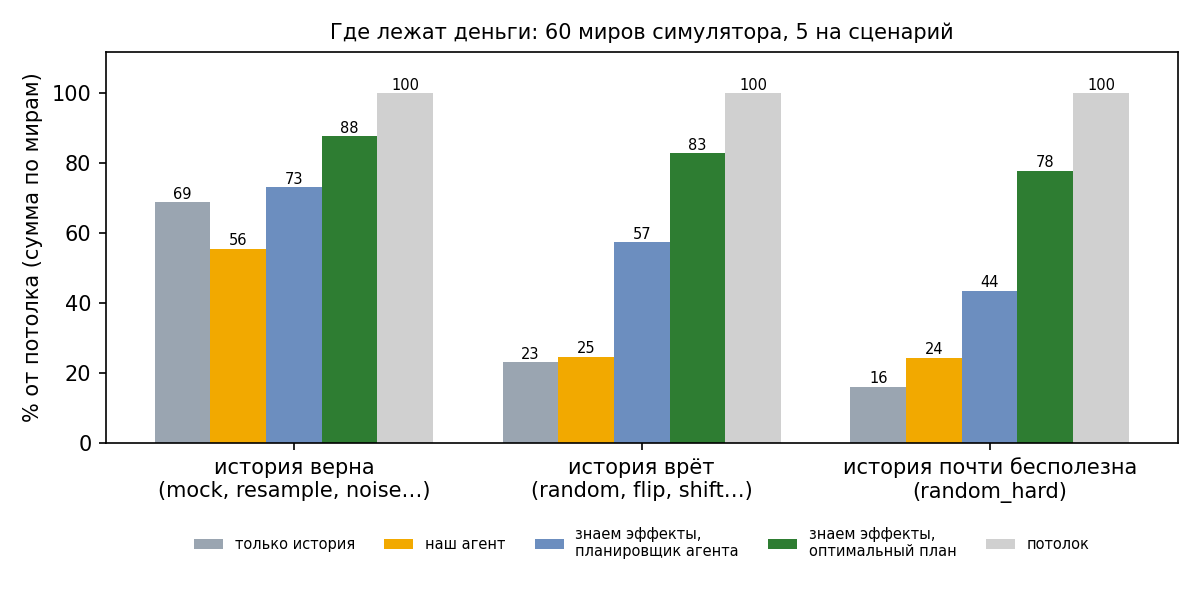
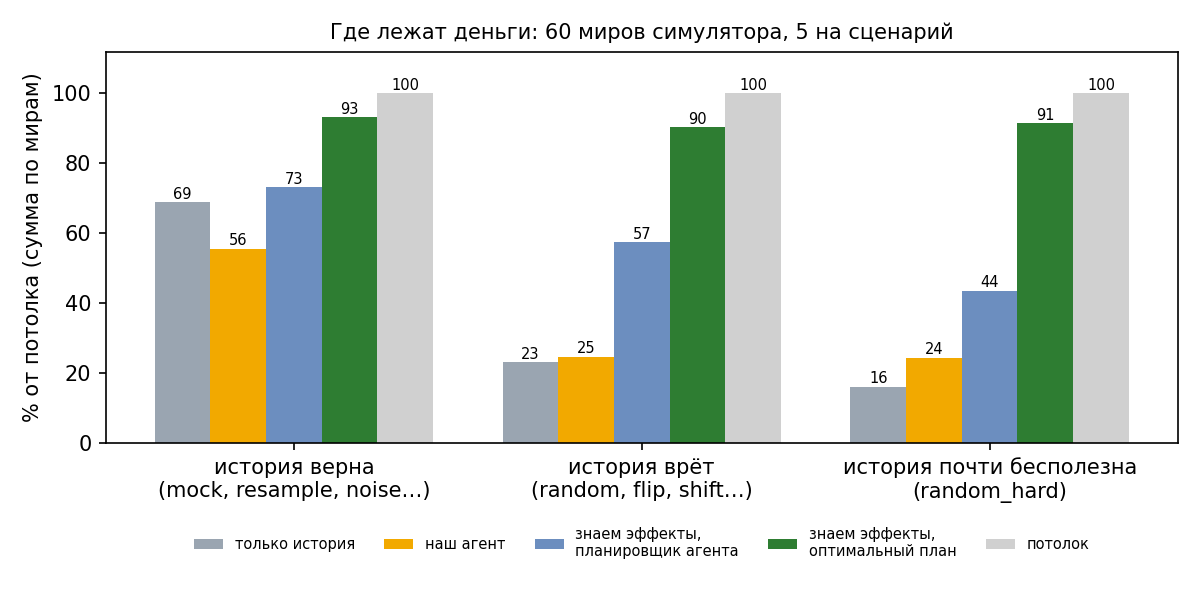
sim: оптимизатор — кандидаты «каждый тариф к своей лучшей цели»; план отыгрывает 92% потолка
Добавлены два семейства наборов тарифов: каждый тариф — к своей лучшей цели (на каждом канале)
и к своей лучшей паре цель × канал. 60 миров: 308.6 против 285.3 млн, лучше в 100% миров;
91.9% потолка против 67.3% у планировщика агента с лучшими каналами. Разрыв агент → потолок:
незнание 40%, каналы 5%, устройство плана 41% (было 30%), запас потолка 14% (было 25%).
По одной истории без пилотов: 176.2 против 154.6 млн, лучше в 75% миров.
Ценность плана = подсчёт организаторов. Миры не менялись.

Changed region(s): [[0.8325, 0.18, 0.8942, 0.3], [0.555, 0.18, 0.6167, 0.27], [0.2467, 0.18, 0.3392, 0.24]]

diff --git a/beeline_agent/sim/optimizer.py b/beeline_agent/sim/optimizer.py
@@ -6,10 +6,12 @@
 только запас в оценке потолка? Используется в sim/headroom.py (колонка known_milp).
 
 Кампания — ровно то, что разрешает ТЗ: сегмент ARPU × (фильтр трафика) × (фильтр звонков) ×
-набор текущих тарифов × целевой тариф × канал. Кандидаты: для каждого сочетания сегмент × фильтры ×
-цель × канал берём тарифы с положительной чистой ценностью по убыванию ценности на абонента,
-в трёх размерах — до 5 000 (лимит кампании), 2 000 и 700 абонентов (чтобы влезали дорогие каналы),
-плюс «все выгодные тарифы» с обрезкой средой до первых 5 000 по ID (ценность считается ровно по ним).
+набор текущих тарифов × целевой тариф × канал. Кандидаты в каждой группе сегмент × фильтры — три семейства
+наборов тарифов: (1) все тарифы, выгодные для пары цель × канал; (2) каждый тариф — к своей лучшей цели;
+(3) каждый тариф — к своей лучшей паре цель × канал. Семейства (2)–(3) подняли результат с 85% до 92% потолка
+на 60 мирах (каждый мир лучше). Размеры — до 5 000 (лимит кампании), 2 000 и 700 абонентов (чтобы влезали
+дорогие каналы), плюс «как есть» с обрезкой средой до первых 5 000 по ID (ценность считается ровно по ним).
+После решения — до двух раундов добора кампаний из незанятых абонентов.
 Ограничения: не больше 10 кампаний, 15 000 контактов и 100 000 бюджета; каждая группа абонентов
 (тариф × сегмент × трафик × звонки) — не больше чем в одной кампании (повторный контакт стоит денег,
 а эффект засчитывается один раз). Пилоты не нужны — эффекты известны.
@@ -49,10 +51,19 @@ def lift_table(world, dict_tariff: pd.DataFrame, channels: dict) -> dict:
 
 def _candidates(atoms: pd.DataFrame, customers: pd.DataFrame, lift: dict, targets: list, channels: dict,
                 exclude: frozenset = frozenset(), seen: set | None = None) -> list:
-    """Кандидаты-кампании; exclude — группы абонентов, уже занятые выбранными кампаниями (добор остатков)."""
+    """
+    Кандидаты-кампании. Три семейства наборов тарифов в каждой группе сегмент × трафик × звонки:
+      (1) цель × канал: все тарифы, для которых эта пара выгодна;
+      (2) канал: каждый тариф идёт к своей лучшей цели — тарифы с одной лучшей целью в одной кампании;
+      (3) каждый тариф — к своей лучшей паре цель × канал.
+    Каждый набор — в размерах до 5 000 / 2 000 / 700 абонентов (по убыванию ценности на абонента) и «как есть»
+    с обрезкой средой до первых 5 000 по ID. exclude — группы абонентов, уже занятые выбранными кампаниями.
+    """
     cands, seen = [], (set() if seen is None else seen)
     codes = sorted(customers["current_tariff"].unique())
     code_idx = {c: i for i, c in enumerate(codes)}
+    ch_names = list(channels)
+    ch_cost = np.array([channels[c]["cost_per_contact"] for c in ch_names], dtype=float)
     for s in SEGMENTS:
         a_s = atoms[atoms["arpu_segment"] == s]
         for d in (None,) + DATA_SEGMENTS:
@@ -74,48 +85,61 @@ def _candidates(atoms: pd.DataFrame, customers: pd.DataFrame, lift: dict, target
                                  & ((customers["call_segment"] == k) if k is not None else True)]
                 cust_tariff = cust["current_tariff"].map(code_idx).values
                 cust_arpu = cust["predicted_arpu"].values
-                for t in targets:
-                    for ch, spec in channels.items():
-                        cost = spec["cost_per_contact"]
-                        l_arr = np.array([lift.get((f, s, t, ch), 0.0) for f in by_tariff.index])
-                        value = l_arr * by_tariff["arpu"].values - cost * by_tariff["n"].values
-                        good = np.flatnonzero(value > 0)
-                        if len(good) == 0:
-                            continue
-                        good = good[np.argsort(-(value[good] / by_tariff["n"].values[good]))]
-                        if int(by_tariff["n"].values[good].sum()) > SIZE_CAPS[0]:
-                            # все выгодные тарифы, обрезка средой до первых 5 000 по ID: считаем ровно эту выборку
-                            lift_vec = np.zeros(len(codes))
-                            for j in good:
-                                lift_vec[code_idx[by_tariff.index[j]]] = l_arr[j]
-                            chosen = np.flatnonzero(lift_vec[cust_tariff] > 0)[:SIZE_CAPS[0]]
-                            atom_ids = tuple(sorted(a for j in good for a in by_tariff["atoms"].values[j]))
-                            key = (t, ch, atom_ids, "cut")
-                            if key not in seen:
-                                seen.add(key)
-                                v = float((lift_vec[cust_tariff[chosen]] * cust_arpu[chosen]).sum() - cost * len(chosen))
-                                cands.append({"segment": s, "data": d, "call": k, "target": t, "channel": ch,
-                                              "tariffs": tuple(sorted(by_tariff.index[j] for j in good)),
-                                              "n": len(chosen), "cost": cost * len(chosen), "value": v,
-                                              "atoms": atom_ids})
-                        for cap in SIZE_CAPS:
-                            pick, size = [], 0
-                            for j in good:                       # по убыванию ценности на абонента, что влезает
-                                n_j = int(by_tariff["n"].values[j])
-                                if size + n_j <= cap:
-                                    pick.append(j)
-                                    size += n_j
-                            if not pick:
-                                continue
-                            atom_ids = tuple(sorted(a for j in pick for a in by_tariff["atoms"].values[j]))
-                            key = (t, ch, atom_ids)
-                            if key in seen:
-                                continue
+                n_arr, arpu_arr = by_tariff["n"].values.astype(float), by_tariff["arpu"].values
+                tariffs_here = list(by_tariff.index)
+                # lift[j, t, c] и чистая ценность value[j, t, c] тарифа j при цели t и канале c
+                L = np.array([[[lift.get((f, s, t, c), 0.0) for c in ch_names] for t in targets] for f in tariffs_here])
+                V = L * arpu_arr[:, None, None] - ch_cost[None, None, :] * n_arr[:, None, None]
+
+                def emit(ti, ci, idx):
+                    t, ch, cost = targets[ti], ch_names[ci], ch_cost[ci]
+                    idx = [j for j in idx if V[j, ti, ci] > 0]
+                    if not idx:
+                        return
+                    idx = sorted(idx, key=lambda j: -V[j, ti, ci] / n_arr[j])
+                    if n_arr[idx].sum() > SIZE_CAPS[0]:
+                        lift_vec = np.zeros(len(codes))
+                        for j in idx:
+                            lift_vec[code_idx[tariffs_here[j]]] = L[j, ti, ci]
+                        chosen = np.flatnonzero(lift_vec[cust_tariff] > 0)[:SIZE_CAPS[0]]
+                        atom_ids = tuple(sorted(a for j in idx for a in by_tariff["atoms"].values[j]))
+                        key = (t, ch, atom_ids, "cut")
+                        if key not in seen:
                             seen.add(key)
+                            v = float((lift_vec[cust_tariff[chosen]] * cust_arpu[chosen]).sum() - cost * len(chosen))
                             cands.append({"segment": s, "data": d, "call": k, "target": t, "channel": ch,
-                                          "tariffs": tuple(sorted(by_tariff.index[j] for j in pick)),
-                                          "n": size, "cost": cost * size, "value": float(value[pick].sum()),
-                                          "atoms": atom_ids})
+                                          "tariffs": tuple(sorted(tariffs_here[j] for j in idx)),
+                                          "n": len(chosen), "cost": cost * len(chosen), "value": v, "atoms": atom_ids})
+                    for cap in SIZE_CAPS:
+                        pick, size = [], 0
+                        for j in idx:                           # по убыванию ценности на абонента, что влезает
+                            if size + n_arr[j] <= cap:
+                                pick.append(j)
+                                size += int(n_arr[j])
+                        if not pick:
+                            continue
+                        atom_ids = tuple(sorted(a for j in pick for a in by_tariff["atoms"].values[j]))
+                        key = (t, ch, atom_ids)
+                        if key in seen:
+                            continue
+                        seen.add(key)
+                        cands.append({"segment": s, "data": d, "call": k, "target": t, "channel": ch,
+                                      "tariffs": tuple(sorted(tariffs_here[j] for j in pick)),
+                                      "n": size, "cost": cost * size, "value": float(V[pick, ti, ci].sum()),
+                                      "atoms": atom_ids})
+
+                all_j = range(len(tariffs_here))
+                for ti in range(len(targets)):                  # (1) цель × канал
+                    for ci in range(len(ch_names)):
+                        emit(ti, ci, all_j)
+                for ci in range(len(ch_names)):                 # (2) каждый тариф — к своей лучшей цели
+                    best_t = V[:, :, ci].argmax(axis=1)
+                    for ti in set(best_t.tolist()):
+                        emit(ti, ci, [j for j in all_j if best_t[j] == ti])
+                flat = V.reshape(len(tariffs_here), -1).argmax(axis=1)   # (3) к лучшей паре цель × канал
+                for code in set(flat.tolist()):
+                    ti, ci = divmod(code, len(ch_names))
+                    emit(ti, ci, [j for j in all_j if flat[j] == code])
     return cands
 
 

diff --git a/beeline_agent/sim/README.md b/beeline_agent/sim/README.md
@@ -32,12 +32,12 @@ python -m sim.charts                                            # графики
 
 | Только история | Агент | Знаем эффекты, планировщик агента | + лучший канал | Знаем эффекты, оптимальный план | Потолок |
 |---:|---:|---:|---:|---:|---:|
-| 154.6 | 136.1 | 216.0 | 226.1 | **285.3** | 335.8 |
+| 154.6 | 136.1 | 216.0 | 226.1 | **308.6** | 335.8 |
 
 - **Незнание эффектов — 40% разрыва** (агент → «знаем эффекты»). Это пилоты и оценка эффекта.
-- **Устройство плана — 30%.** Оптимальный план строит `optimizer.py`: целочисленная оптимизация (scipy/HiGHS) с фильтрами трафика и звонков, наборами тарифов и всеми 4 каналами. Он берёт все 10 кампаний, ~14 900 контактов и ~99 000 бюджета. Нынешний агент берёт медиану 3 кампании, ~11 000 контактов с пилотами и ~44 000 бюджета.
-- **Каналы по отдельности — 5%. Запас в оценке потолка — 25%**: потолок доказуемый, но не достижимый.
-- Даже без пилотов, на одних оценках истории, оптимальный план лучше планировщика агента на тех же оценках: 166.0 против 154.6 млн, лучше в 70% миров.
+- **Устройство плана — 41%.** Оптимальный план строит `optimizer.py`: целочисленная оптимизация (scipy/HiGHS) с фильтрами трафика и звонков, наборами тарифов (в том числе «каждый тариф — к своей лучшей цели») и всеми 4 каналами. Он берёт 92% потолка против 67% у планировщика агента: все 10 кампаний, почти весь охват и бюджет. Нынешний агент берёт медиану 3 кампании, ~11 000 контактов с пилотами и ~44 000 бюджета.
+- **Каналы по отдельности — 5%. Запас в оценке потолка — всего 14%**: почти весь разрыв «план» можно отыграть.
+- Даже без пилотов, на одних оценках истории, оптимальный план лучше планировщика агента на тех же оценках: 176.2 против 154.6 млн, лучше в 75% миров, миров в минусе 7% против 10%.
 - `plan_from_lift(...)` принимает любые оценки эффекта, в том числе оценки агента после пилотов.
 
 ## Проверка режима по пилотам (`prior/regime.py`)
